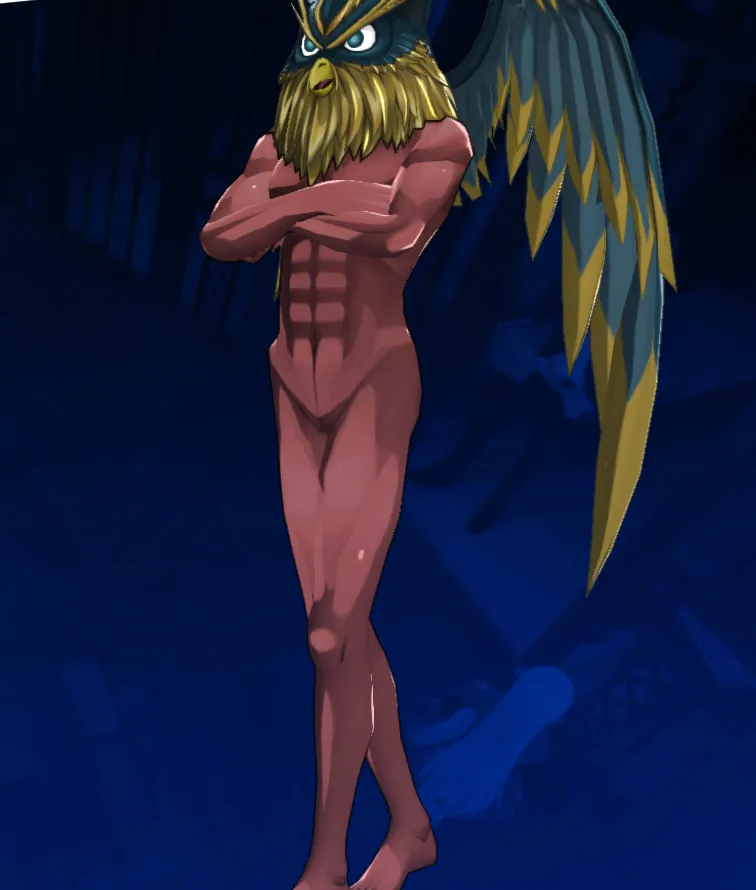
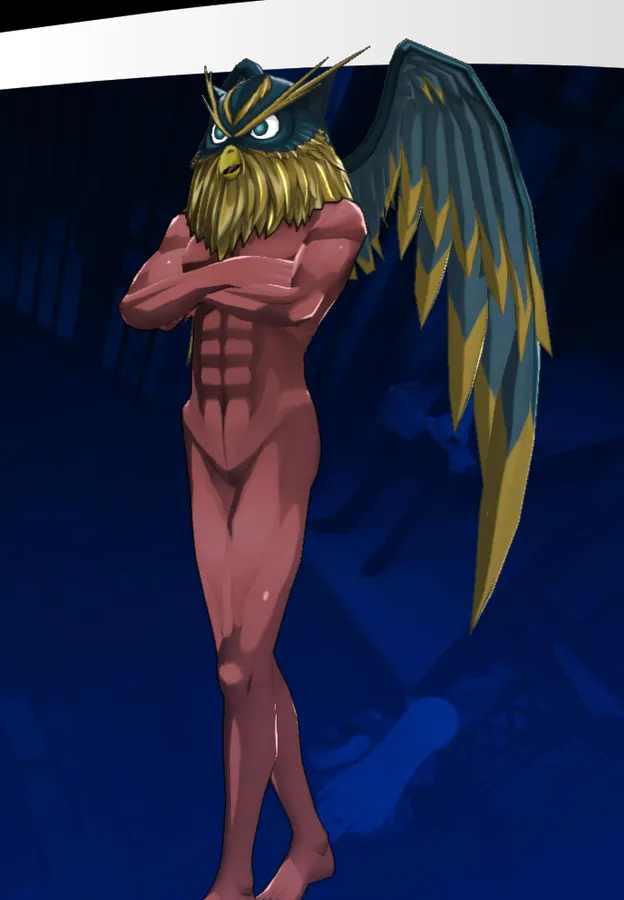
Fotos: Andras en el catálogo con la cara entera (se deja la franja)
Claude-Session: https://claude.ai/code/session_01TLD9DxtzdAPGjt2ektcgBd

diff --git a/src/games/p5r/services/images.ts b/src/games/p5r/services/images.ts
@@ -24,6 +24,7 @@ export const personaImage = (id: string, view: 'profile' | 'side'): string | und
 /** Encuadre en las tarjetas del catálogo: por defecto 50% 30%; algunas fotos necesitan mostrar más arriba. */
 const CARD_FOCUS: Record<string, string> = {
   'cu-chulainn': '50% 0%',
+  andras: '50% 0%',
   'fuu-ki': '50% 0%',
   'hariti': '50% 0%',
   'izanagi': '50% 0%',
